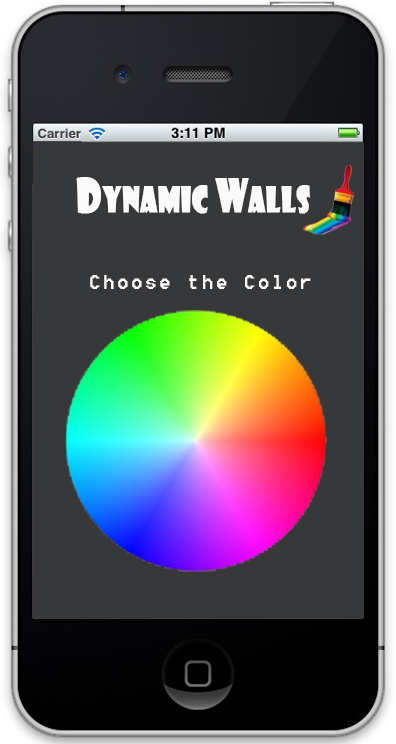
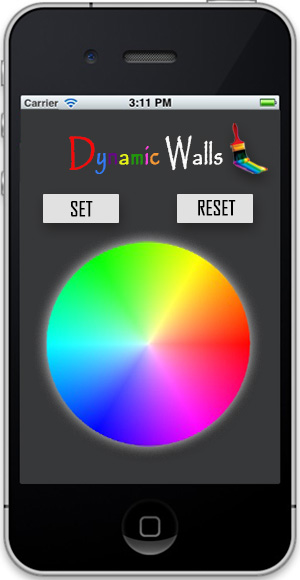
Dynamic Wall Update

diff --git a/projects/dynamic_walls/dynamic_walls.html b/projects/dynamic_walls/dynamic_walls.html
@@ -7,22 +7,22 @@
 </head>
 <body style="margin:0;padding:0;">
 	<div style="width:90%; margin:0px auto;font:normal 16px Arial, Helvetica, sans-serif;">
-		<h1 style="text-align:center;color:#444;">Dynamic Walls</h1>
-		<p style="text-align:center;color:#666;margin-top:-17px;">Bring color into your workspace.</p>
-		<div style="width:35%;float:left;">
-			<canvas width="600" height="500" id="canvas_picker" style="height:432px;"></canvas>
+		<div style="width:35%;float:left; margin-top:20px">
+			<canvas width="300px" height="580px" id="canvas_picker"></canvas>
 			<div id="hex" style="display:none;">HEX: <input type="text"></input></div>
 			<div id="rgb" style="display:none;">RGB: <input type="text"></input></div>
 		</div>
 		<div id="wall" style="width:63%; float:left;">
+			<h1 style="text-align:center;color:#444;">Dynamic Walls</h1>
+			<p style="text-align:center;color:#666;margin-top:-20px;">Bring color into your workspace.</p>
 			<img id="pic" src="Yo.png" style="border:1px solid gray;max-width:100%;">
 		</div>
+		
 	</div>
 	<div style="clear:both;"></div>
-
 	<div style="display:none;"></div>
 
-	<footer style="width:90%;background-color:#333;color:#f2f2f2;font:normal 14px Arial, Helvetica, sans-serif;height:75px; padding: 1.5% 5% 0% 5%; margin-top:20px;">
+	<footer style="width:90%;background-color:#333;color:#f2f2f2;font:normal 12px Arial, Helvetica, sans-serif;height:40px; padding: 1.5% 5% 0% 5%;">
 		<p style="float:left;">copyright@dynamicwalls</p>
 		<p style="float:right;"><b>contact us:</b> support@dynamicwalls.com</p>
 	</footer>
@@ -69,7 +69,7 @@
 	  $('#rgb input').val(rgb);
 	  $('#hex input').val('#' + hex);
 	  var wallcolor = '#' + hex;
-	  update('wall', hex);
+	  update('pic', hex);
 	});	
 
 </script>
